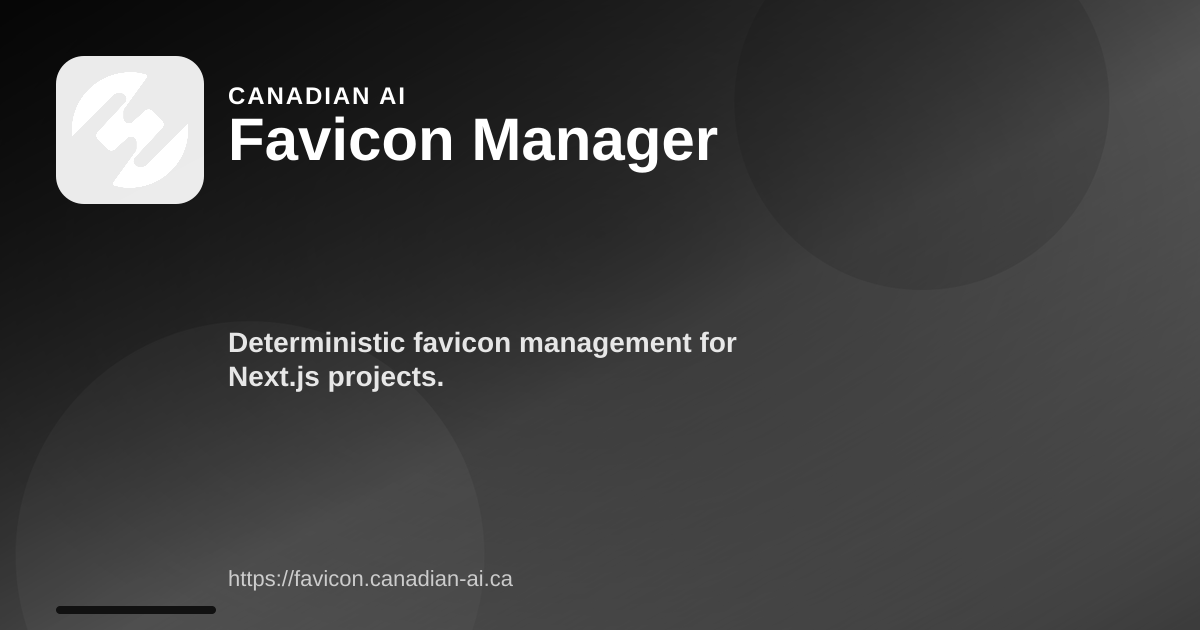
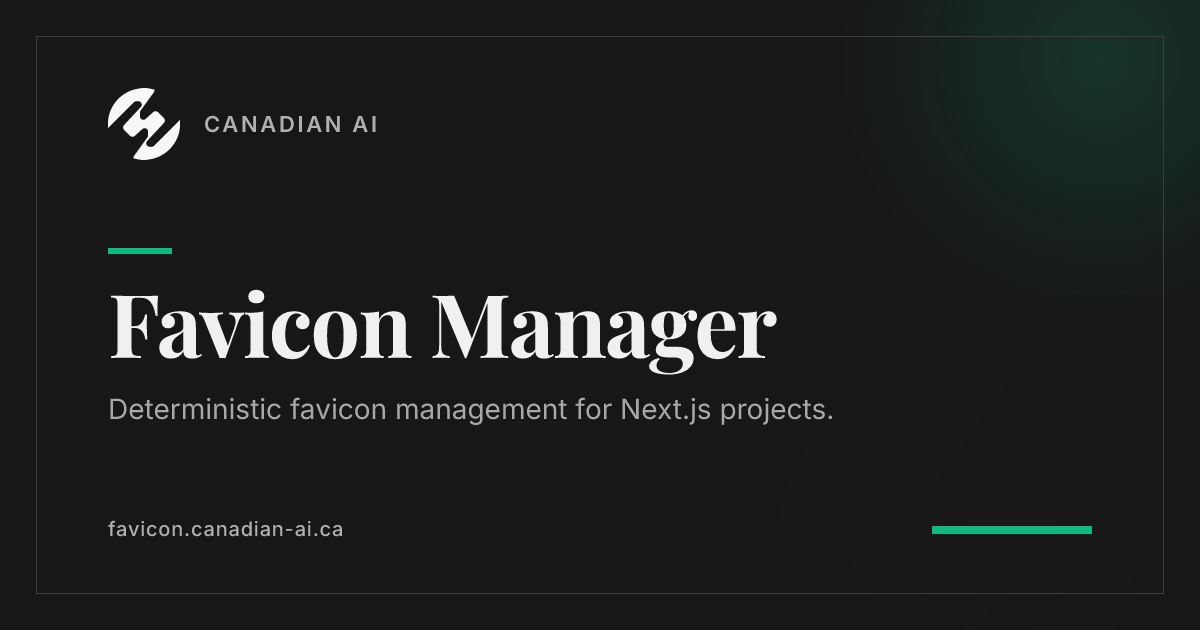
feat: sync Canadian AI brand assets (emerald social cards) (#16)

diff --git a/app/layout.tsx b/app/layout.tsx
@@ -10,36 +10,6 @@ export const metadata: Metadata = {
     generator: 'v0.app',
     icons: {
         icon: [{
-                url: "/icon-black-16x16.png",
-                sizes: "16x16",
-                type: "image/png",
-                media: "(prefers-color-scheme: light)"
-            }, {
-                url: "/icon-black-32x32.png",
-                sizes: "32x32",
-                type: "image/png",
-                media: "(prefers-color-scheme: light)"
-            }, {
-                url: "/icon-black-48x48.png",
-                sizes: "48x48",
-                type: "image/png",
-                media: "(prefers-color-scheme: light)"
-            }, {
-                url: "/icon-white-16x16.png",
-                sizes: "16x16",
-                type: "image/png",
-                media: "(prefers-color-scheme: dark)"
-            }, {
-                url: "/icon-white-32x32.png",
-                sizes: "32x32",
-                type: "image/png",
-                media: "(prefers-color-scheme: dark)"
-            }, {
-                url: "/icon-white-48x48.png",
-                sizes: "48x48",
-                type: "image/png",
-                media: "(prefers-color-scheme: dark)"
-            }, {
                 url: "/icon-16x16.png",
                 sizes: "16x16",
                 type: "image/png"
